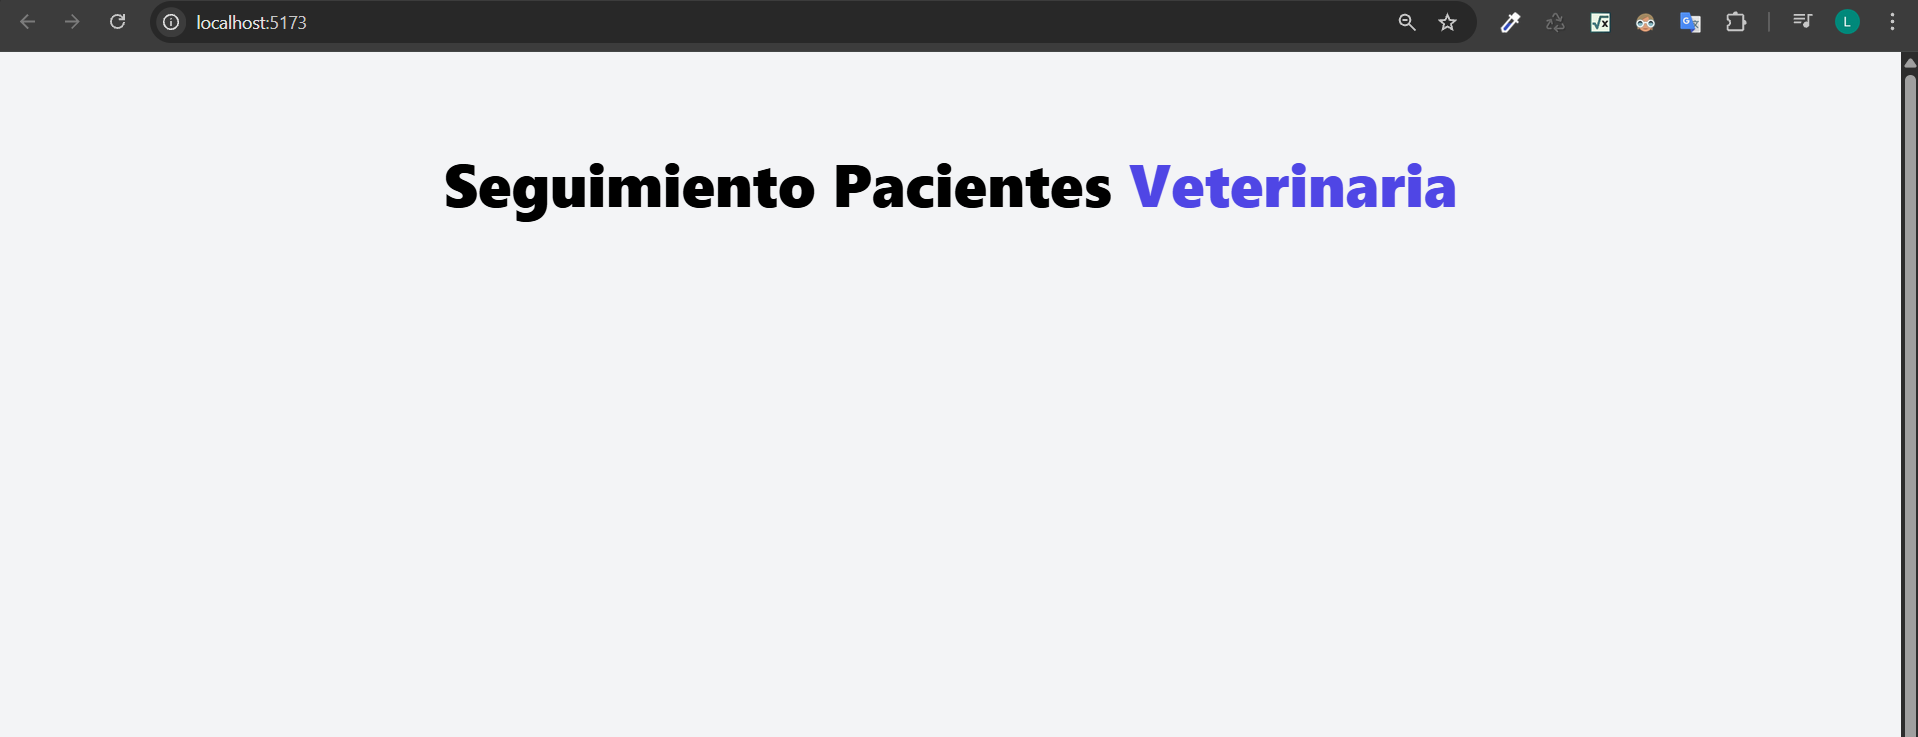
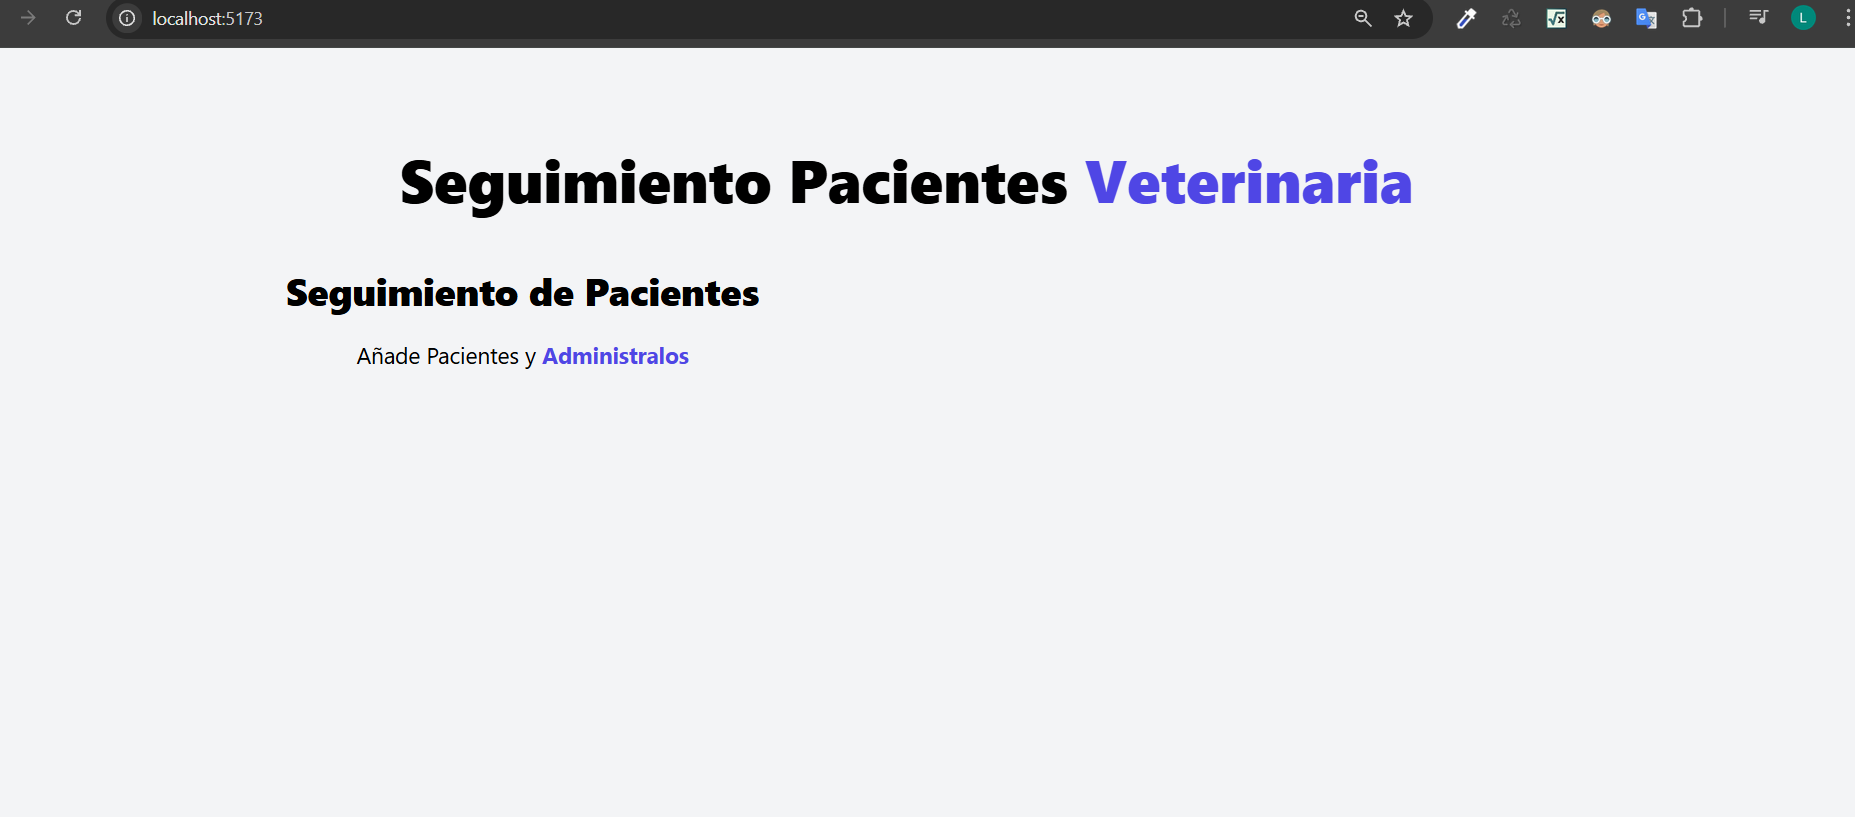
Creación del componente Formulario 20250829 12:06 pm

diff --git a/src/components/Formulario.vue b/src/components/Formulario.vue
@@ -1,0 +1,13 @@
+<script setup>
+
+</script>
+
+<template>
+    <div class="md:w-1/2">
+        <h2 class="font-black text-3xl text-center">Seguimiento de Pacientes</h2>
+        <p class="text-lg mt-5 text-center mb-10">
+            Añade Pacientes y 
+            <span class="text-indigo-600 font-bold">Administralos</span>
+        </p>
+    </div>
+</template>

diff --git a/src/App.vue b/src/App.vue
@@ -1,10 +1,14 @@
 <script setup>
   import Header from './components/Header.vue';
+  import Formulario from './components/Formulario.vue';
 </script>
 
 <template>
   <div class="container mx-auto mt-20">
     <Header />
+    <div class="mt-12 md:flex">
+      <Formulario />
+    </div>
   </div>
 </template>
 

diff --git a/README.md b/README.md
@@ -4,9 +4,15 @@ This template should help get you started developing with Vue 3 in Vite. The tem
 
 Learn more about IDE Support for Vue in the [Vue Docs Scaling up Guide](https://vuejs.org/guide/scaling-up/tooling.html#ide-support).
 
-🚀 Creación del componente Header
+🗓 Proyecto actualizado el dia 20250829 a las 12:06 pm Colombia
+© Autor: Luis Hernando Murcia Amortegui
+📧 Contacto: luisamortegui.3691@gmail.com
 
-Se crea el componente Header en el fichero components. Una vez creado el diseño, se renderiza importando el componente en el App.js y se llama al componente.
+🚀 Creación del componente Formulario
+
+Se crea el diseño del título y una breve descripción del formulario, se importa el componente en el App.vue y se llama el componente. En el componente se le asigna que su ancho va a tomar el 50% de la pantalla solo cuando la pantalla sea mayor o igual a 768px.
+
+✅ Vista de como queda
 
 ![Vista Header](docs/images/Captura%20de%20pantalla%202025-08-29%20113951.png)
 
